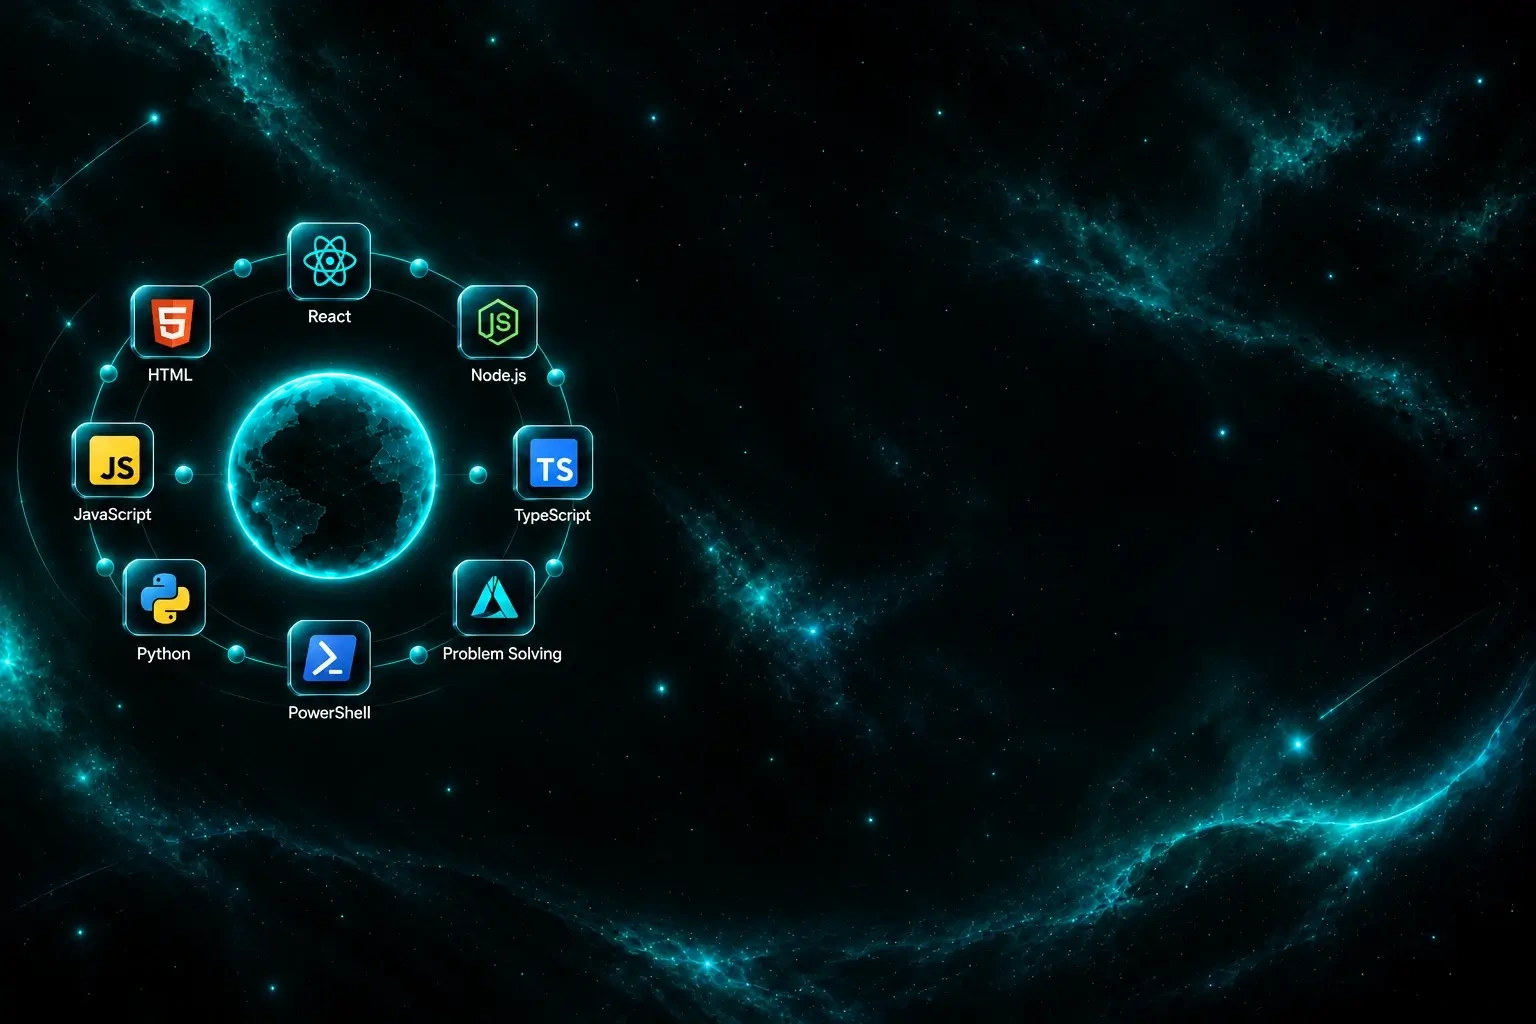
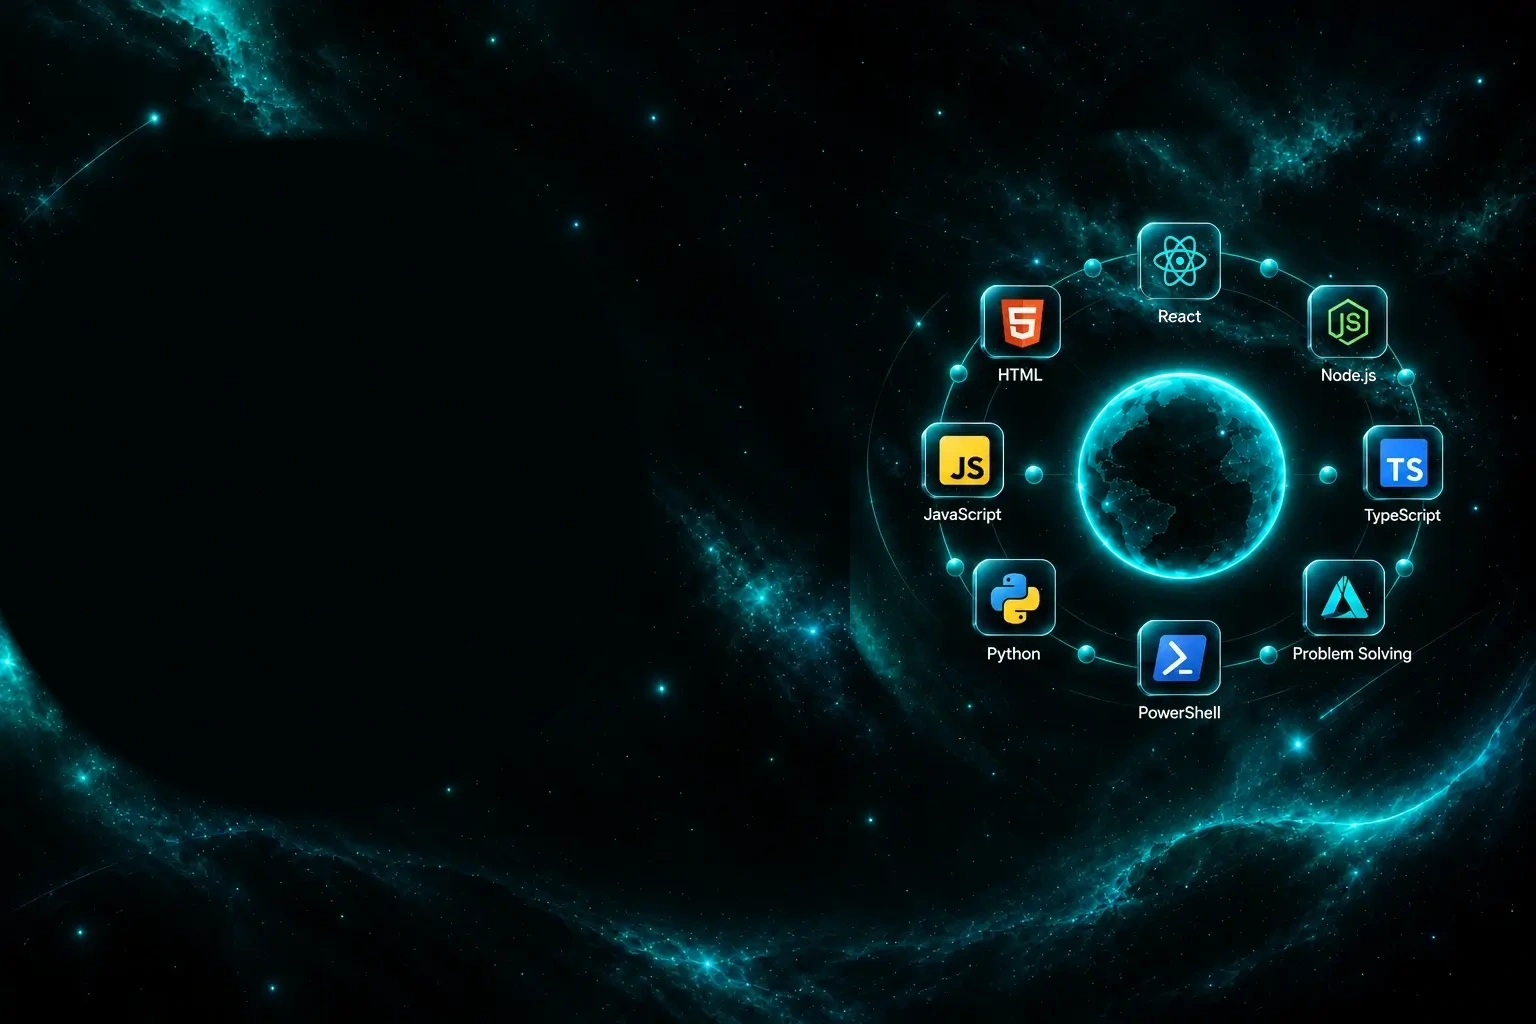
Update Skills component layout and enhance scrolling behavior
- Adjusted CSS for the Skills component to improve layout responsiveness, including changes to positioning for better visual alignment.
- Introduced a new function for calculating scroll positions to enhance anchor navigation without animation.
- Updated media asset for the Skills section to a higher quality version.

Changed region(s): [[0.0, 0.125, 0.4062, 0.7188], [0.5625, 0.125, 0.9375, 0.7188], [0.5312, 0.5938, 0.5938, 0.6875]]

diff --git a/src/components/home/Skills.tsx b/src/components/home/Skills.tsx
@@ -74,22 +74,11 @@ export function Skills({ skills }: { skills: SkillRow[] }) {
         <div className="lg:grid lg:grid-cols-[0.8fr_1.6fr] lg:gap-6">
           <div aria-hidden className="hidden lg:block" />
           <div className={`${responsiveCss.heading} min-w-0 text-left`}>
-            <div className={responsiveCss.sectionLabel}>
+            <div className={responsiveCss.sectionLabel} data-desktop-scroll-anchor>
               <span className={responsiveCss.sectionNumber}>02</span>
               <span>Skills</span>
               <span aria-hidden className={responsiveCss.sectionRule} />
             </div>
-            <m.span
-              initial={{ opacity: 0, y: 12 }}
-              whileInView={{ opacity: 1, y: 0 }}
-              viewport={{ once: true }}
-              transition={{ duration: 0.4 }}
-              {...reducedMotionProps}
-              className="border-brand-mid/30 bg-brand-mid/10 text-brand-bright inline-flex items-center gap-2 rounded-full border px-3.5 py-1 text-[13px] font-medium"
-            >
-              <Zap className="fill-brand-mid text-brand-mid size-3.5" />
-              My Toolbox
-            </m.span>
 
             <m.h2
               initial={{ opacity: 0, y: 12 }}
@@ -122,6 +111,19 @@ export function Skills({ skills }: { skills: SkillRow[] }) {
           <div aria-hidden className="hidden lg:block" />
 
           <div className="min-w-0">
+            <div className="mb-3 text-center">
+              <m.span
+                initial={{ opacity: 0, y: 12 }}
+                whileInView={{ opacity: 1, y: 0 }}
+                viewport={{ once: true }}
+                transition={{ duration: 0.4 }}
+                {...reducedMotionProps}
+                className="border-brand-mid/30 bg-brand-mid/10 text-brand-bright inline-flex items-center gap-2 rounded-full border px-3.5 py-1 text-[13px] font-medium"
+              >
+                <Zap className="fill-brand-mid text-brand-mid size-3.5" />
+                My Toolbox
+              </m.span>
+            </div>
             {ordered.length > 0 && (
               <m.div
                 initial={{ opacity: 0, y: 12 }}

diff --git a/src/components/home/skills-responsive.module.css b/src/components/home/skills-responsive.module.css
@@ -18,39 +18,32 @@
   }
 }
 .heading {
-  display: grid;
-  grid-template-columns: minmax(0, 1fr) clamp(124px, 18vw, 220px);
-  column-gap: 16px;
-  align-items: start;
-}
-
-.heading > span {
-  grid-column: 1;
-  grid-row: 2;
-  justify-self: start;
+  position: relative;
 }
 
 .heading h2 {
   grid-column: 1;
-  grid-row: 3;
+  grid-row: 2;
   white-space: normal;
   text-wrap: initial;
 }
 
 .heading > p {
   grid-column: 1 / -1;
-  grid-row: 4;
+  grid-row: 3;
 }
 
 .quoteAnchor {
-  grid-column: 2;
-  grid-row: 2 / 4;
-  align-self: end;
+  position: absolute;
+  top: 0;
+  right: 0;
+  width: clamp(124px, 18vw, 220px);
   min-width: 0;
   margin: 0;
 }
 
 .sectionLabel {
+  width: calc(100% - clamp(124px, 18vw, 220px) - 16px);
   display: flex;
   align-items: center;
   gap: 12px;
@@ -134,13 +127,13 @@
   .content {
     width: 100%;
     min-height: 0;
-    top: -24px;
+    top: -56px;
     padding-top: 96px;
     padding-bottom: 64px;
   }
 
   .backdrop {
-    top: 128px;
+    top: 96px;
   }
 
   .backdrop [data-edge="top"] {
@@ -178,9 +171,12 @@
 
   .quoteAnchor {
     position: absolute;
-    top: 32px;
     right: 0;
     width: 184px;
+  }
+
+  .sectionLabel {
+    width: calc(100% - 200px);
   }
 
   .quote {
@@ -200,8 +196,11 @@
   }
 
   .quoteAnchor {
-    top: -26px;
     width: 156px;
+  }
+
+  .sectionLabel {
+    width: calc(100% - 168px);
   }
 
   .quote {
@@ -213,15 +212,13 @@
   }
 }
 
-@media (orientation: portrait) and (max-width: 1023px) {
-  .quoteAnchor {
-    top: 52px;
-  }
-}
-
 @media (orientation: portrait) and (max-width: 374px) {
   .quoteAnchor {
     width: 128px;
+  }
+
+  .sectionLabel {
+    width: calc(100% - 140px);
   }
 
   .quote {

diff --git a/src/lib/scroll-to-section.ts b/src/lib/scroll-to-section.ts
@@ -1,16 +1,25 @@
 "use client";
 
+/** A centered section can expose its content start as the desktop anchor. */
+export function sectionScrollPosition(target: HTMLElement): number {
+  const anchor = window.matchMedia("(min-width: 1024px) and (pointer: fine)").matches
+    ? (target.querySelector<HTMLElement>("[data-desktop-scroll-anchor]") ?? target)
+    : target;
+  const margin = Number.parseFloat(getComputedStyle(target).scrollMarginTop) || 0;
+  const contentOffset = anchor === target ? 0 : 30;
+  return anchor.getBoundingClientRect().top + window.scrollY - margin - contentOffset;
+}
+
 /** A paced anchor transition that yields immediately to manual navigation. */
 export function scrollToSection(id: string, reducedMotion: boolean): () => void {
   const target = document.getElementById(id);
   if (!target) return () => {};
 
   const start = window.scrollY;
-  const margin = Number.parseFloat(getComputedStyle(target).scrollMarginTop) || 0;
   const destination = Math.max(
     0,
     Math.min(
-      target.getBoundingClientRect().top + start - margin,
+      sectionScrollPosition(target),
       document.documentElement.scrollHeight - window.innerHeight,
     ),
   );

diff --git a/src/components/util/HashScrollFix.tsx b/src/components/util/HashScrollFix.tsx
@@ -2,6 +2,7 @@
 
 import { useEffect } from "react";
 import { usePathname } from "next/navigation";
+import { sectionScrollPosition } from "@/lib/scroll-to-section";
 
 /** Position cross-page anchors without animating through the whole homepage. */
 export function HashScrollFix() {
@@ -22,9 +23,9 @@ export function HashScrollFix() {
     const tick = () => {
       const target = document.getElementById(id);
       if (target) {
-        const position = target.getBoundingClientRect().top + window.scrollY;
+        const position = sectionScrollPosition(target);
         if (lastPosition === undefined || Math.abs(position - lastPosition) > 2) {
-          target.scrollIntoView({ behavior: "instant", block: "start" });
+          window.scrollTo({ top: position, behavior: "instant" });
           lastPosition = position;
         }
       }
